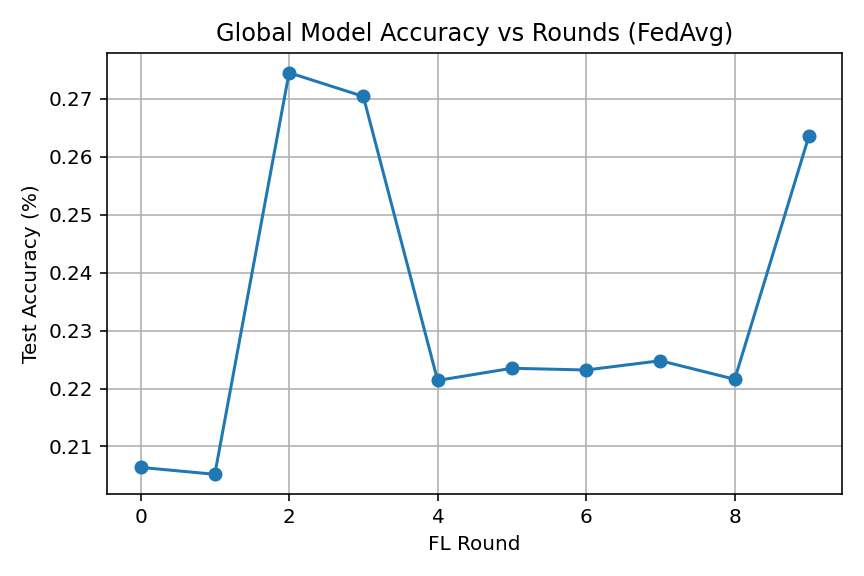
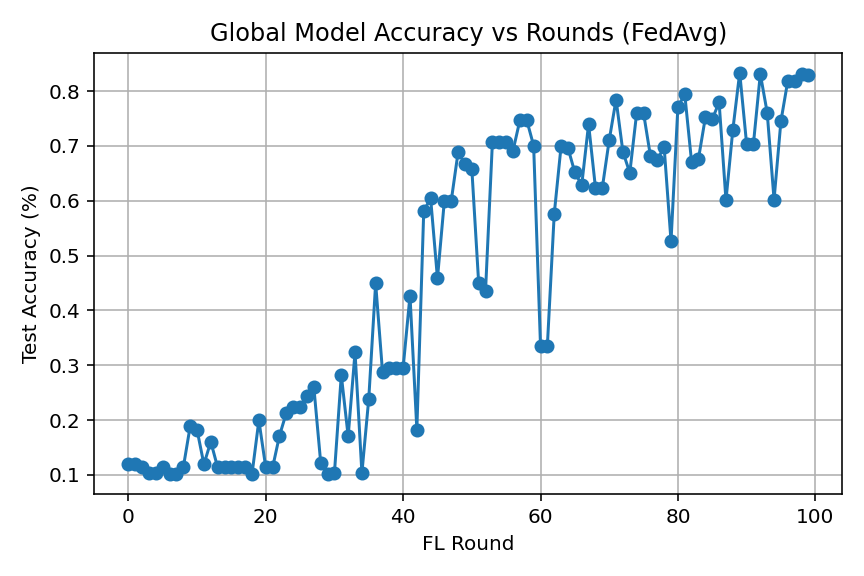
changed the CNN model

diff --git a/main.py b/main.py
@@ -2,8 +2,9 @@ from utils.options import args_parser
 from utils.sampling_func import DataPartitioner
 from models.Update import LocalUpdate
 from models.Fed import FedAvg
-from models.Nets import CNNMnist
+from models.Nets import CNNMnist,CNN60K
 from models.evaluation import test_model
+# from selections.selectors import RandomSelector, GreedyChannelSelector, MARLSelector
 
 import copy
 import torch
@@ -20,28 +21,29 @@ def main():
     args = args_parser()
     args.device = torch.device('cuda:{}'.format(args.gpu) if torch.cuda.is_available() else 'cpu')
 
-    # trans = transforms.Compose([transforms.ToTensor()])
-    # dataset_train = datasets.MNIST('./data/mnist/', train=True, download=True, transform=trans)
-    # dataset_test = datasets.MNIST('./data/mnist/', train=False, download=True, transform=trans)
+    trans = transforms.Compose([transforms.ToTensor()])
+    dataset_train = datasets.MNIST('./data/mnist/', train=True, download=True, transform=trans)
+    dataset_test = datasets.MNIST('./data/mnist/', train=False, download=True, transform=trans)
 
-    trans = transforms.Compose([
-    transforms.RandomCrop(32, padding=4),
-    transforms.RandomHorizontalFlip(),
-    transforms.ToTensor(),
-    ])
+    # trans = transforms.Compose([
+    # transforms.RandomCrop(32, padding=4),
+    # transforms.RandomHorizontalFlip(),
+    # transforms.ToTensor(),
+    # ])
     
-    dataset_train = datasets.CIFAR10('./data/cifar10/', train=True, download=True, transform=trans)
-    dataset_test = datasets.CIFAR10('./data/cifar10/', train=False, download=True, transform=trans)
+    # dataset_train = datasets.CIFAR10('./data/cifar10/', train=True, download=True, transform=trans)
+    # dataset_test = datasets.CIFAR10('./data/cifar10/', train=False, download=True, transform=trans)
     
-    args.num_channels = 3
-    args.num_classes = 10
+    # args.num_channels = 3
+    # args.num_classes = 10
 
 
     partition_obj = DataPartitioner(dataset_train, args.total_UE, NonIID=args.iid, alpha=args.alpha)
     dict_users, _ = partition_obj.use() #Each client gets indices of MNIST samples.
 
-    # net_glob = CNNMnist(args=args).to(args.device)
-    net_glob = ResNetCifar(num_classes=10).to(args.device)
+    net_glob = CNNMnist(args=args).to(args.device)
+    # net_glob = ResNetCifar(num_classes=10).to(args.device)
+    # net_glob = CNN60K(args=args).to(args.device)
     net_glob.train()
 
     acc_list = []

diff --git a/utils/options.py b/utils/options.py
@@ -3,9 +3,9 @@ import argparse
 def args_parser():
     parser = argparse.ArgumentParser()
 
-    parser.add_argument('--round', type=int, default=10)
-    parser.add_argument('--total_UE', type=int, default=10)
-    parser.add_argument('--active_UE', type=int, default=5)
+    parser.add_argument('--round', type=int, default=100)
+    parser.add_argument('--total_UE', type=int, default=100)
+    parser.add_argument('--active_UE', type=int, default=10)
     parser.add_argument('--local_ep', type=int, default=2)
     parser.add_argument('--local_bs', type=int, default=64)
     parser.add_argument('--bs', type=int, default=256)
@@ -21,6 +21,22 @@ def args_parser():
     parser.add_argument('--optimizer', type=str, default='fedavg')
     
     parser.add_argument('--mode', type=str, default='random_selection', choices=['ideal', 'random_selection'])
+
+
+    # Experiment switches
+    parser.add_argument('--method', type=str, default='random',
+                        choices=['random', 'greedy_channel', 'marl'],
+                        help='Client selection method')
+    
+    parser.add_argument('--altitude_mode', type=str, default='fixed',
+                        choices=['fixed', 'random', 'marl'],
+                        help='How UAV altitudes are set')
+    
+    parser.add_argument('--wireless_on', action='store_true',
+                        help='Enable wireless success/failure model')
+    
+    parser.add_argument('--snr_th', type=float, default=5.0,
+                    help='SNR threshold for successful upload')
 
 
     args = parser.parse_args()

diff --git a/UE_Selection/selectors.py b/UE_Selection/selectors.py
@@ -1,2 +1,27 @@
+import numpy as np
+
+class BaseSelector:
+    def select(self, channel_metric, K):
+        raise NotImplementedError
+
+class RandomSelector(BaseSelector):
+    def select(self, channel_metric, K):
+        N = len(channel_metric)
+        return np.random.choice(N, K, replace=False)
+
+class GreedyChannelSelector(BaseSelector):
+    def select(self, channel_metric, K):
+        # lower PL = better channel
+        scores = 1.0 / (channel_metric + 1e-9)
+        return np.argsort(scores)[-K:]
+
+# Placeholder for future MARL
+class MARLSelector(BaseSelector):
+    def __init__(self, marl_agent):
+        self.marl_agent = marl_agent
+
+    def select(self, channel_metric, K):
+        scores = self.marl_agent.get_scores(channel_metric)
+        return np.argsort(scores)[-K:]
 # -*- coding: utf-8 -*-
 

diff --git a/models/Nets.py b/models/Nets.py
@@ -33,3 +33,27 @@ class ResNetCifar(nn.Module):
 
     def forward(self, x):
         return self.model(x)
+    
+
+
+class CNN60K(nn.Module):
+    def __init__(self, args):
+        super(CNN60K, self).__init__()
+        self.conv1 = nn.Conv2d(args.num_channels, 16, kernel_size=5)
+        self.conv2 = nn.Conv2d(16, 32, kernel_size=5)
+
+        self.fc1 = nn.Linear(32 * 4 * 4, 128)
+        self.fc2 = nn.Linear(128, args.num_classes)
+
+    def forward(self, x):
+        x = F.relu(self.conv1(x))
+        x = F.max_pool2d(x, 2)
+
+        x = F.relu(self.conv2(x))
+        x = F.max_pool2d(x, 2)
+
+        x = x.view(x.size(0), -1)
+        x = F.relu(self.fc1(x))
+        x = self.fc2(x)
+        return x
+
